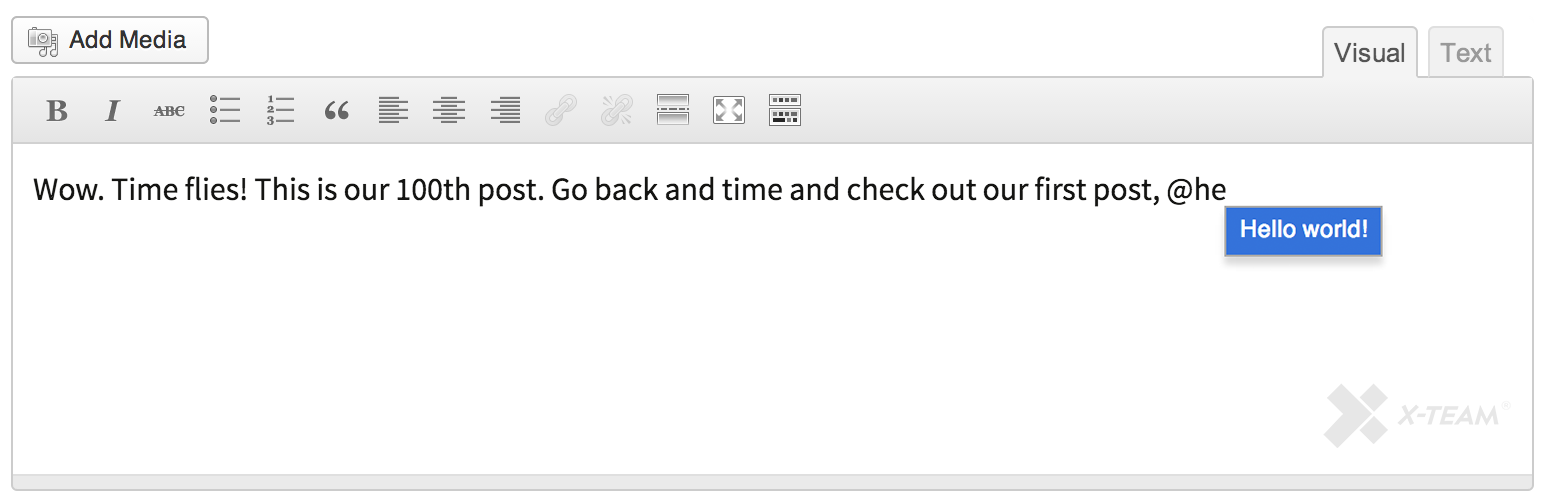
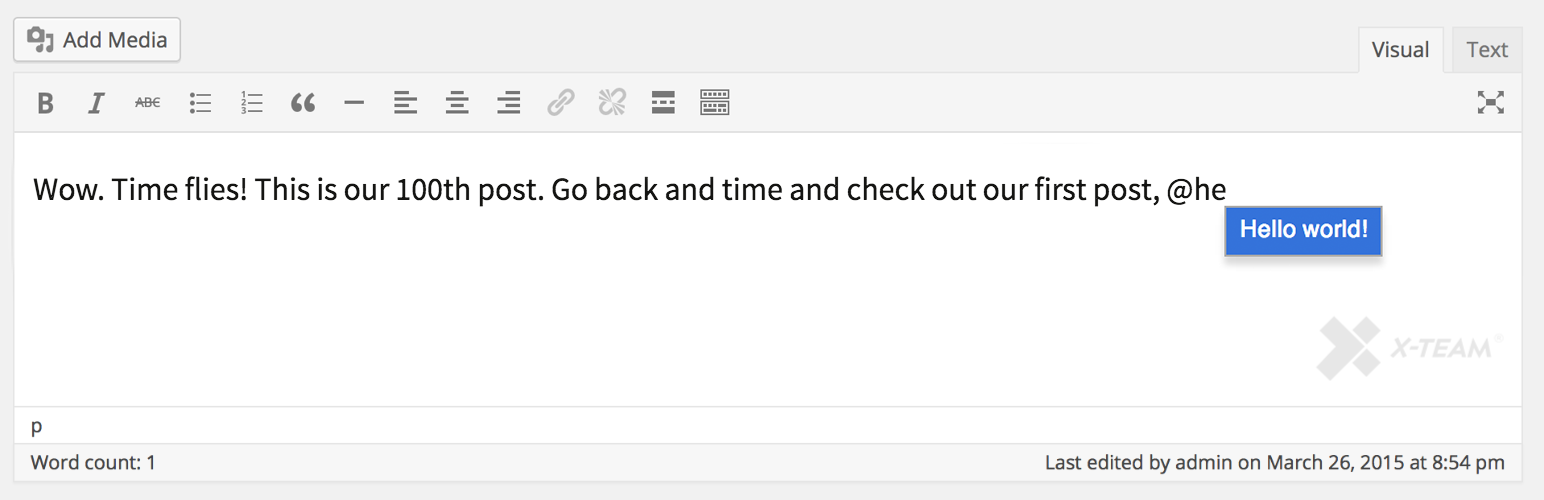
Release 0.4.0

diff --git a/js/mentionable-tmce.js b/js/mentionable-tmce.js
@@ -290,7 +290,7 @@
 			}
 
 			/**
-			 * Highlight next posssible option in the autocomplete list
+			 * Highlight next possible option in the autocomplete list
 			 *
 			 * @return {void}
 			 */
@@ -305,7 +305,7 @@
 			}
 
 			/**
-			 * Highlight previous posssible option in the autocomplete list
+			 * Highlight previous possible option in the autocomplete list
 			 *
 			 * @return {void}
 			 */
@@ -359,11 +359,14 @@
 				range.setStart( range.startContainer, range.startOffset - matchedText.length - 1 );
 				ed.selection.setRng( range );
 
+                var new_tab = mentionable.new_tab ? '_blank' : '_self';
 				ed.selection.setContent(
 						'<a class="' +
 								params.nodeClass +
 								'" href="' +
 								currentURL +
+                                '" target="' +
+                                new_tab +
 								'" data-mentionable="' +
 								currentID +
 								'">' +

diff --git a/css/mentionable-style.css b/css/mentionable-style.css
@@ -22,9 +22,13 @@ ul.mentionable-autocomplete{
 	z-index: 1000000;
 }
 
+ul.mentionable-autocomplete mark {
+    background-color: #FFFBCC;
+}
+
 ul.mentionable-autocomplete > li:hover,
 ul.mentionable-autocomplete > li[data-selected=true]{
-	background: #3875d7;
+	background: #0074A2;
 	color: #fff;
 }
 

diff --git a/css/mentionable-tmce-style.css b/css/mentionable-tmce-style.css
@@ -5,5 +5,5 @@
  * @author Jonathan Bardo <jonathan.bardo@x-team.com>
  */
 .mentionable {
-	color: red;
+	color: #124964;
 }

diff --git a/mentionable.php b/mentionable.php
@@ -3,7 +3,7 @@
  * Plugin Name: Mentionable
  * Plugin URI: http://x-team.com
  * Description: Mention WordPress content with inline autocomplete inside tinyMCE.
- * Version: 0.3.0
+ * Version: 0.4.0
  * Author: Jonathan Bardo, Topher, X-Team
  * Author URI: http://x-team.com/wordpress/
  * License: GPLv2+
@@ -93,7 +93,7 @@ class Mentionable {
 		// Get current post type in admin
 		self::$current_post_type = $this->get_current_admin_post_type();
 
-		// Set constans needed by the plugin.
+		// Set constant needed by the plugin.
 		add_action( 'plugins_loaded', array( $this, 'define_constants' ), 1 );
 
 		// Internationalize the text strings used.
@@ -111,6 +111,8 @@ class Mentionable {
 	 * @return void
 	 */
 	public function define_constants() {
+		define( 'MENTIONABLE_BASENAME', plugin_basename( __FILE__ ) );
+
 		// Set constant path to the plugin directory.
 		define( 'MENTIONABLE_DIR', trailingslashit( plugin_dir_path( __FILE__ ) ) );
 
@@ -157,11 +159,11 @@ class Mentionable {
 			add_action( 'admin_enqueue_scripts', array( $this, 'admin_enqueue_scripts' ) );
 		}
 
-		// Intanciate postmetas class
+		// Instantiate postmetas class
 		require_once( MENTIONABLE_INCLUDES_DIR . '/' . self::$class_name . '-postmetas.php' );
 		$this->postmetas = new Mentionable_Postmetas;
 
-		// Instanciate content class
+		// Instantiate content class
 		require_once( MENTIONABLE_INCLUDES_DIR . '/' . self::$class_name . '-content.php' );
 		$this->content = new Mentionable_Content;
 	}
@@ -209,13 +211,14 @@ class Mentionable {
 	 * @return void
 	 */
 	public function admin_enqueue_scripts() {
-		wp_enqueue_style( 'mentionable_css', MENTIONABLE_URL . '/css/' . self::$class_name . '-style.css', '0.1.0' );
+		wp_enqueue_style( 'mentionable_css', MENTIONABLE_URL . '/css/' . self::$class_name . '-style.css', '0.4.0' );
 		wp_localize_script(
 			'jquery',
 			self::$class_name,
 			array(
-				'nonce'  => wp_create_nonce( self::$class_name . '_nonce' ),
-				'action' => 'get_mentionable',
+				'nonce'   => wp_create_nonce( self::$class_name . '_nonce' ),
+				'action'  => 'get_mentionable',
+				'new_tab' => Mentionable_Settings::$options['open_new_tab'] ? true : false,
 			)
 		);
 	}

diff --git a/includes/mentionable-settings.php b/includes/mentionable-settings.php
@@ -30,10 +30,14 @@ class Mentionable_Settings {
 		// Register settings, and fields
 		add_action( 'admin_init', array( $this, 'register_settings' ) );
 
+		// Add settings link
+		add_filter( 'plugin_action_links_' . MENTIONABLE_BASENAME, [ $this, 'action_link' ], 10, 4 );
+
 		$defaults = array(
 			'post_types'              => array( 'post' ),
 			'autocomplete_post_types' => array( 'post' ),
 			'load_template'           => false,
+			'open_new_tab'            => false,
 		);
 
 		self::$options = apply_filters(
@@ -52,7 +56,7 @@ class Mentionable_Settings {
 	 * @return void
 	 */
 	public function register_menu() {
-		if ( current_user_can( 'manage_options' ) ) {
+		if ( current_user_can( apply_filters( 'mentionable_cap', 'manage_options' ) ) ) {
 			add_options_page(
 				__( 'Mentionable', 'mentionable' ),
 				__( 'Mentionable', 'mentionable' ),
@@ -146,6 +150,18 @@ class Mentionable_Settings {
 			)
 		);
 
+		add_settings_field(
+			'open_new_tab',
+			__( 'Open links in new tab', 'mentionable' ),
+			array( $this, 'output_checkbox' ),
+			self::KEY,
+			$section_name,
+			array(
+				'key'         => 'open_new_tab',
+				'description' => __( 'All links generated by mentionable will be opened in a new tab instead of the current tab.', 'mentionable' ),
+			)
+		);
+
 	}
 
 	/**
@@ -178,7 +194,7 @@ class Mentionable_Settings {
 	}
 
 	/**
-	 * Ouput an option checkbox
+	 * Output an option checkbox
 	 *
 	 * @param array $args
 	 *
@@ -193,6 +209,19 @@ class Mentionable_Settings {
 		);
 
 		echo balanceTags( $output );
+	}
+
+	/**
+	 * Add settings link to plugin list page
+	 *
+	 * @param array $links
+	 *
+	 * @return array
+	 */
+	public function action_link( $links ) {
+		$links[] = '<a href="' . admin_url( 'admin.php?page=' . self::KEY ) . '">' . __( 'Settings' ) . '</a>';
+
+		return $links;
 	}
 
 }

diff --git a/includes/mentionable-postmetas.php b/includes/mentionable-postmetas.php
@@ -51,8 +51,6 @@ class Mentionable_Postmetas {
 
 		foreach ( $mentioned_ids as $mention => $mention_data ) {
 
-			$stack = get_post_meta( $mention, 'mentioned_by' );
-
 			if ( $post_id != $mention ) {
 				update_post_meta( $mention, 'mentioned_by', $post_id );
 			}
@@ -61,7 +59,7 @@ class Mentionable_Postmetas {
 	}
 
 	/**
-	 * Removes ids from post meta on posts UNmentioned
+	 * Removes ids from post meta on posts UN mentioned
 	 *
 	 * @since 0.1.0
 	 * @access public
@@ -76,7 +74,7 @@ class Mentionable_Postmetas {
 		// get the version of the post from before this update
 		$old_version = get_post( $post_id );
 
-		// get the menttioned IDs from before the latest update
+		// get the mentioned IDs from before the latest update
 		$old_mentioned_ids = $this->get_mentioned_ids( $old_version->post_content );
 
 		// get the mentioned IDs from the latest update

diff --git a/includes/mentionable-content.php b/includes/mentionable-content.php
@@ -34,8 +34,9 @@ class Mentionable_Content {
 	 * @return string $content
 	 */
 	public function the_content( $content ){
-		if ( 'on' === Mentionable_Settings::$options['load_template'] && apply_filters( 'mentionable_load_template', '__return_true' ) )
+		if ( 'on' === Mentionable_Settings::$options['load_template'] && apply_filters( 'mentionable_load_template', '__return_true' ) ) {
 			$content = preg_replace_callback( '#<a\b[^>]*?\sdata-mentionable="([^"]*?)"[^>]*?>([^<]*?)</a>#', array( $this, 'handle_replacement' ), $content );
+		}
 
 		return $content;
 	}

diff --git a/templates/mentionable.php b/templates/mentionable.php
@@ -1,2 +1,2 @@
-<!-- This template is meant to be overriden by your theme template. -->
+<!-- This template is meant to be overridden by your theme template. -->
 <?php echo $post->mentionable_tag_content; // xss ok

diff --git a/includes/mentionable-autocomplete.php b/includes/mentionable-autocomplete.php
@@ -18,7 +18,7 @@ class Mentionable_Autocomplete {
 	}
 
 	/**
-	 * Handle the aucomplete ajax request
+	 * Handle the autocomplete ajax request
 	 *
 	 * @return json
 	 */

diff --git a/readme.md b/readme.md
@@ -15,6 +15,8 @@ Mention WordPress content with inline autocomplete inside tinyMCE.
 
 This plugin brings the power of @mention inside tinyMCE. You can choose where the autocompletion gets his information from and on which custom post type this plugin is activated on. You can also create custom template replacement on the front-end based on your needs.
 
+A review of the plugin is available on [WP Tavern](http://wptavern.com/mentionable-plugin-adds-mentions-for-wordpress-content-with-inline-autocomplete).
+
 **Development of this plugin is done [on GitHub](https://github.com/x-team/wp-mentionable). Pull requests welcome. Please see [issues](https://github.com/x-team/wp-mentionable/issues) reported there before going to the plugin forum.**
 
 [![Build Status](https://travis-ci.org/jonathanbardo/WP-Mentionable.png?branch=master)](https://travis-ci.org/jonathanbardo/WP-Mentionable)
@@ -36,6 +38,10 @@ This plugin brings the power of @mention inside tinyMCE. You can choose where th
 ![After pressing enter, the plugin replace your input with the right link and content](assets/screenshot-2.png)
 
 ## Changelog ##
+
+### 0.4.0 ###
+* Add option to open link in a new tab
+* Change Styling to be closer with WP UI
 
 ### 0.3.0 ###
 * Update for 4.1 Compatibility
